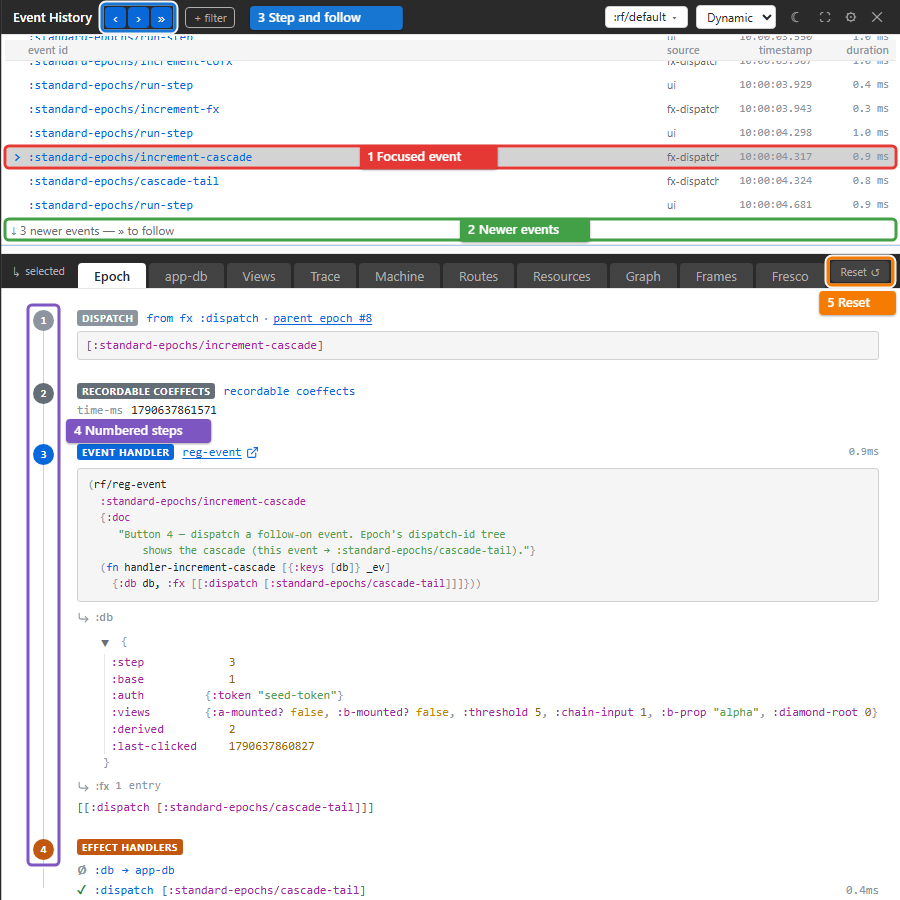
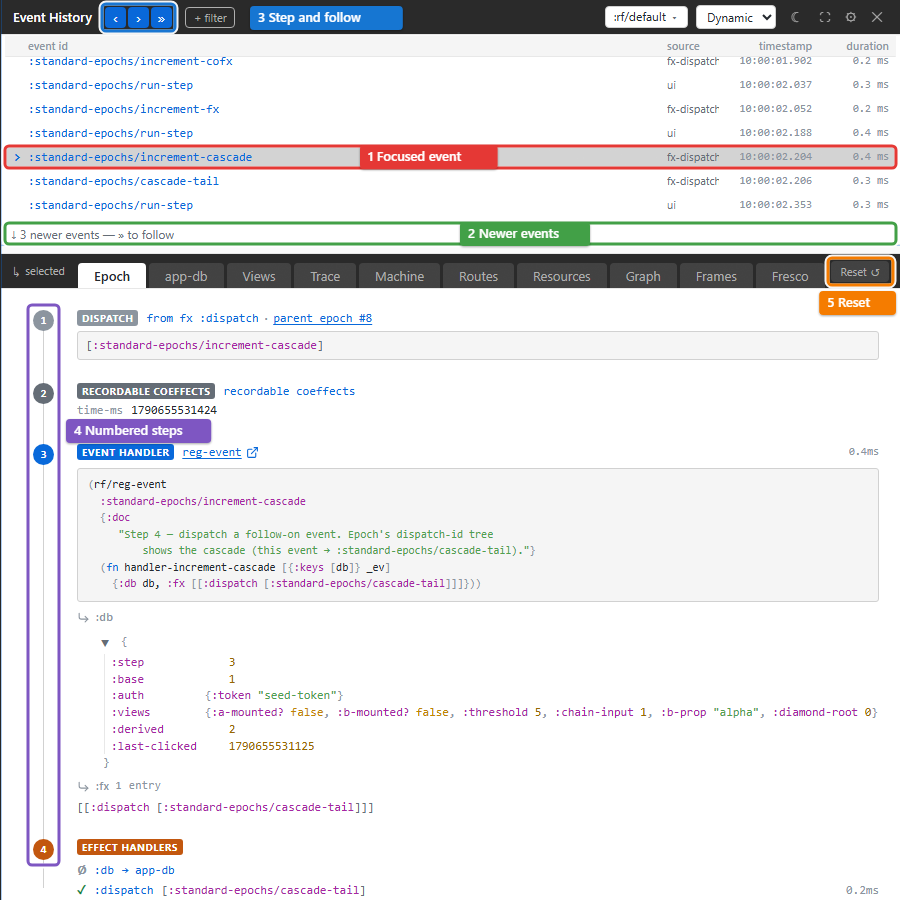
docs(xray): regenerate the stale screenshots, add the Fresco-tab shot, and match chapter 11's cap route to the Advisor (rf2-snbo5)
Regenerated once against the finished UI, after rf2-2tt74, rf2-33nt5 and
rf2-97l4l. Seven shots changed: epoch, app-db, resources and routes (the
list header now sits flush over a scrolled event list), views (the
Reactive Flow labels fit their nodes), and the whole-page shell and
source-coord (the testbed's step notes changed). Hydration, machine,
schema and trace came out differing only in timestamps and durations, and
routes-static byte-identical, so those five are left as they were.

Two annotation targets moved and their labels move with them: the epoch
shot's newer-events strip 4px down, and the views shot's subscription and
view nodes 45px and 17px right.

The Fresco-tab shot, deferred until Xray stopped listing its own chrome as
evidence, is a new scene on the running example with three callouts, and
chapter 11 now shows it. Chapter 11's cap route quotes the Advisor's
label, and the generator's hydration-scene comment says where a mismatch
lands since the :ungrouped row keeps it.

diff --git a/docs/xray/11-fresco-tab.md b/docs/xray/11-fresco-tab.md
@@ -29,6 +29,10 @@ Across the top of the tab is a strip of six buttons. Hover any of them and the t
 
 All six are computed from one read of Fresco's evidence, taken at a single moment. That is why they are views inside one tab rather than six tabs: separate reads could disagree, for example if a view mounted between them. Advisor and Causal also read the runtime's retained trace records: Advisor for the subscriptions' measured recompute times, and Causal for the dispatch's events.
 
+The screenshot shows the tab on the standard-epochs testbed. The six views sit across the top (1 in the screenshot). Under them, every view prints a summary line (2) naming the read it comes from and whether that read is complete. The testbed is a Reagent app with no Fresco boundaries, so Mounted shows an empty roster (3), with a sentence saying what that means for this view.
+
+![The Fresco tab on the standard-epochs testbed, numbered: 1 the six views, 2 the summary line, 3 the Mounted view's empty roster](../images/xray/xray-tutorial-fresco.png)
+
 ## Reading an empty tab
 
 A tab with no rows can mean three different things, and Xray says which:
@@ -81,7 +85,7 @@ From the owner, never from how hot the boundary is, the Advisor picks a route:
 | Computation | **Narrow or memoize the subscription**. The cost runs below the view layer, so moving the view would keep it |
 | Read topology | **Tune topology without changing language**, rung 2 of the performance ladder |
 | Unattributed, host-opaque | **Measure the unattributed half elsewhere** |
-| Unattributed, cap | Reproduce the interaction and read the tab again |
+| Unattributed, cap | **Reproduce the interaction and read again**. The window is empty, not small, so a bigger buffer is not the remedy |
 
 The hottest boundary on the page and the coldest one with the same owner get the same route.
 
